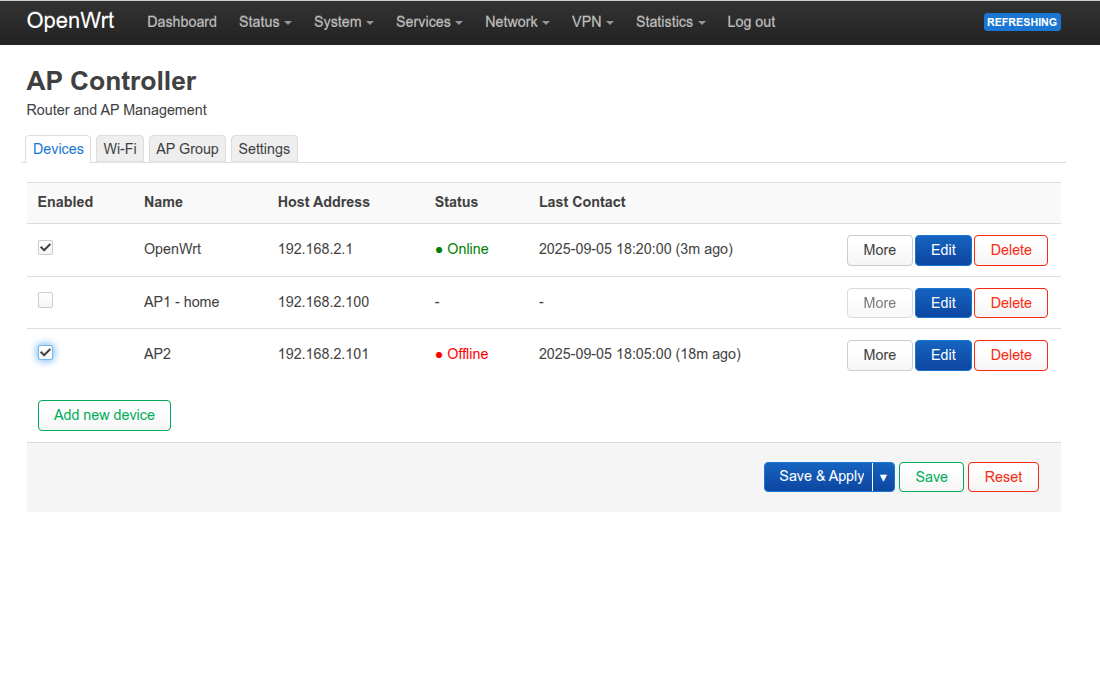
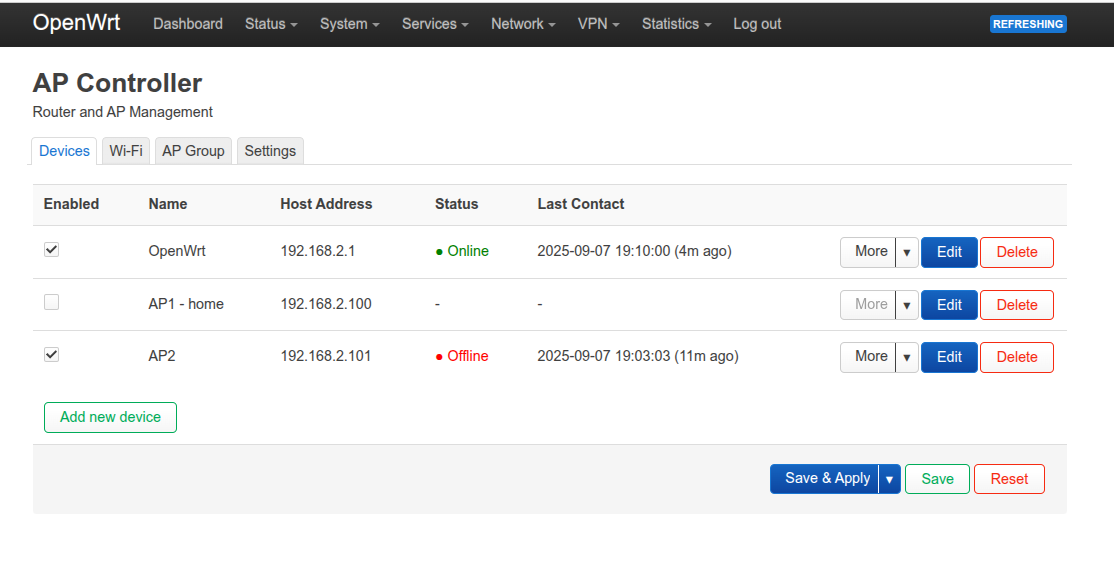
Design improvements
New features:
- Downloading the log from the device
- Ability to reboot the device

Fixed:
- Sending configuration to devices

diff --git a/luci-app-apcontroller/htdocs/luci-static/resources/view/apcontroller/apcontroller.js b/luci-app-apcontroller/htdocs/luci-static/resources/view/apcontroller/apcontroller.js
@@ -52,7 +52,7 @@ function hoststatus(records, section_id) {
 		if (!interval)
 			return E('span', { 'style': 'color: gray' }, _('Unknown'));
 		else
-			if (timestamp - lastContact_ts > parseInt(interval) * 2 * 60)
+			if (timestamp - lastContact_ts > parseInt(interval) * 2.5 * 60)
 				return E('span', { 'style': 'color: red' }, '● ' + _('Offline'));
 			else
 				return E('span', { 'style': 'color: green' }, '● ' + _('Online'));
@@ -115,6 +115,7 @@ return view.extend({
 			'status': _('Status'),
 			'lastcontact': _('Last Contact'),
 			'mac': _('MAC Address'),
+			'hostname': _('Hostname'),
 			'model': _('Model'),
 			'software': _('Software'),
 			'uptime': _('Uptime'),
@@ -130,6 +131,13 @@ return view.extend({
 		function updateDeviceStatus(records) {
 			devicestatus = records;
 			(devicestatus.hosts).forEach(row => {
+				if (row['channels2g'])
+					row['channels2g'] = row['channels2g'].replaceAll(' ', ', ')
+				if (row['channels5g'])
+					row['channels5g'] = row['channels5g'].replaceAll(' ', ', ')
+				if (row['channels6g'])
+					row['channels6g'] = row['channels6g'].replaceAll(' ', ', ')
+
 				if (row['lastcontact']) {
 					row['.lastcontact'] = row['lastcontact'];
 
@@ -140,7 +148,7 @@ return view.extend({
 
 						let t = '' + d.getFullYear() + '-' + lz(d.getMonth() + 1) + '-' + lz(d.getDate()) + ' ' +
 							lz(d.getHours()) + ':' + lz(d.getMinutes()) + ':' + lz(d.getSeconds());
-						
+
 						if (row['.lastcontact'] > 86400)
 							t += ' (' + parseInt(row['.lastcontact']/86400) + _('days ago') + ')';
 						else if (row['.lastcontact'] > 3600)
@@ -168,19 +176,20 @@ return view.extend({
 			document.querySelectorAll('#cbi-apcontroller-host tr[data-section-id]').forEach(row => {
 				const section_id = row.dataset.sectionId;
 				const hostRecord = devicestatus.hosts.find(h => h.section === section_id);
-				const li = row.querySelector('li[data-value="more"]');
-				if (li)
+
+				row.querySelectorAll('li[data-state="disabled"]').forEach(e => {
 					if (typeof hostRecord === 'undefined' || !hostRecord || !hostRecord['.lastcontact'] || hostRecord['.lastcontact'] == -1) {
-						li.setAttribute('aria-disabled', 'true');
-						li.classList.add('disabled');
-						li.style.pointerEvents = 'none';
-						li.style.opacity = '0.5';
+						e.setAttribute('aria-disabled', 'true');
+						e.classList.add('disabled');
+						e.style.pointerEvents = 'none';
+						e.style.opacity = '0.5';
 					} else {
-						li.removeAttribute('aria-disabled');
-						li.classList.remove('disabled');
-						li.style.pointerEvents = '';
-						li.style.opacity = '';
+						e.removeAttribute('aria-disabled');
+						e.classList.remove('disabled');
+						e.style.pointerEvents = '';
+						e.style.opacity = '';
 					}
+				})
 
 				Object.entries(morecolumns).forEach(([key, value]) => {
 					if (selectedcolumns.includes(key) || key == 'status') {
@@ -231,23 +240,30 @@ return view.extend({
 
 			const actionBtn = new ui.ComboButton('more', {
 				'more': [ _('More') ],
-				'ping': [ '%s %s'.format(_('IPv4'), _('Ping')) ]
+				'ping': [ '%s %s'.format(_('IPv4'), _('Ping')) ],
+				'log': [ _('Log') ],
+				'reboot': [ _('Reboot') ]
 			}, {
 				classes: {
 					'more': 'btn cbi-button cbi-button-normal',
-					'ping': 'btn cbi-button cbi-button-normal'
-			},
-			click: null
+					'ping': 'btn cbi-button cbi-button-normal',
+					'log': 'btn cbi-button cbi-button-normal',
+					'reboot': 'btn cbi-button cbi-button-normal'
+				},
+				click: null,
+				sort: false
 			}).render();
+			actionBtn.querySelector('li[data-value="more"]').setAttribute('data-state', 'disabled');
+			actionBtn.querySelector('li[data-value="log"]').setAttribute('data-state', 'disabled');
+			actionBtn.querySelector('li[data-value="reboot"]').setAttribute('data-state', 'disabled');
 
 			if (typeof host === 'undefined' || !host['.lastcontact'] || host['.lastcontact'] == -1) {
-				const li = actionBtn.querySelector('li[data-value="more"]');
-				if (li) {
-					li.setAttribute('aria-disabled', 'true');
-					li.classList.add('disabled');
-					li.style.pointerEvents = 'none';
-					li.style.opacity = '0.5';
-				}
+				actionBtn.querySelectorAll('li[data-state="disabled"]').forEach(e => {
+					e.setAttribute('aria-disabled', 'true');
+					e.classList.add('disabled');
+					e.style.pointerEvents = 'none';
+					e.style.opacity = '0.5';
+				})
 			}
 			actionBtn.querySelectorAll('li[data-value]').forEach(li => {
 				li.addEventListener('click', ev => {
@@ -259,10 +275,26 @@ return view.extend({
 						case 'ping':
 							this.actionPing(section_id, ev);
 							break;
+						case 'log':
+							this.actionLog(section_id, ev);
+							break;
+						case 'reboot':
+							this.actionReboot(section_id, ev);
+							break;
 					}
+					setTimeout(() => {
+						const defaultLi = actionBtn.querySelector('li[data-value="more"]');
+						if (defaultLi) {
+							actionBtn.querySelectorAll('li[data-value]').forEach(e => {
+								e.removeAttribute('selected');
+								e.removeAttribute('display');
+							});
+							defaultLi.setAttribute('selected', '');
+							defaultLi.setAttribute('display', 0);
+						}
+					}, 50);
 				});
 			});
-
 			dom.content(tdEl.lastChild, [
 				actionBtn,
 				tdEl.lastChild.childNodes[0],
@@ -301,43 +333,6 @@ return view.extend({
 						}
 					}, 50);
 				}
-			});
-		};
-
-		s.actionPing = function(section_id) {
-			const row = this.cfgvalue(section_id);
-
-			return this.map.save().then(() => {
-				ui.showModal(_('Ping'), [
-					E('p', { 'class': 'spinning' }, [ _('Pinging device...') ])
-				]);
-				return fs.exec('ping', [ '-4', '-c', '5', '-W', '1', row['ipaddr'] ]).then(function(res) {
-					ui.showModal(_('Ping'), [
-						res.stdout ? E('textarea', {
-							'spellcheck': 'false',
-							'wrap': 'off',
-							'rows': 25
-						}, [ res.stdout ]) : '',
-						res.stderr ? E('textarea', {
-							'spellcheck': 'false',
-							'wrap': 'off',
-							'rows': 25
-						}, [ res.stderr ]) : '',
-						E('div', { 'class': 'right' }, [
-							E('button', {
-								'class': 'cbi-button cbi-button-primary',
-								'click': ui.hideModal
-							}, [ _('Close') ])
-						])
-					]);
-				}).catch(function(err) {
-					ui.hideModal();
-					ui.addNotification(null, [
-						E('p', [ _('Error: '), err ])
-					]);
-				});
-			}).catch(err => {
-				ui.addNotification(null, E('p', err?.message || err), 'error');
 			});
 		};
 
@@ -386,10 +381,121 @@ return view.extend({
 						E('button', {
 							'class': 'cbi-button cbi-button-neutral',
 							'click': ui.hideModal
-						}, _('Close'))
+						}, _('Dismiss'))
 					])
 			);
 			ui.showModal(_("More Information"), child);
+		};
+
+		s.actionPing = function(section_id) {
+			const row = this.cfgvalue(section_id);
+
+			ui.showModal(_('Ping'), [
+				E('p', { 'class': 'spinning' }, [ _('Pinging device...') ])
+			]);
+			return fs.exec('ping', [ '-4', '-c', '5', '-W', '1', row['ipaddr'] ]).then(function(res) {
+				ui.showModal(_('Ping'), [
+					res.stdout ? E('textarea', {
+						'spellcheck': 'false',
+						'wrap': 'off',
+						'rows': 25
+					}, [ res.stdout ]) : '',
+					res.stderr ? E('textarea', {
+						'spellcheck': 'false',
+						'wrap': 'off',
+						'rows': 25
+					}, [ res.stderr ]) : '',
+					E('div', { 'class': 'right' }, [
+						E('button', {
+							'class': 'cbi-button cbi-button-primary',
+							'click': ui.hideModal
+						}, [ _('Dismiss') ])
+					])
+				]);
+			}).catch(function(err) {
+				ui.hideModal();
+				ui.addNotification(null, [
+					E('p', [ _('Error') + ': ', err ])
+				]);
+			});
+		};
+
+		s.actionLog = function(section_id) {
+			const row = this.cfgvalue(section_id);
+
+			ui.showModal(_('Log'), [
+				E('p', { 'class': 'spinning' }, [ _('Fetching log...') ])
+			]);
+			return fs.exec('sshpass', [
+				'-p',
+				typeof row['password'] !== 'undefined' ? row['password']: '""',
+				'ssh',
+				'-q',
+				'-o',
+				'StrictHostKeyChecking=no',
+				'-p',
+				row['port'],
+				row['username'] + '@' + row['ipaddr'],
+				'logread',
+				'-l',
+				'100']).then(function(res) {
+				ui.showModal(_('Log from') + ' ' + row['name'] + ' (' + row['ipaddr'] + ')', [
+					res.stdout ? E('textarea', {
+						'spellcheck': 'false',
+						'wrap': 'off',
+						'rows': 40,
+						'style': 'white-space: nowrap',
+					}, [ res.stdout ]) : '',
+					E('div', { 'class': 'right' }, [
+						E('button', {
+							'class': 'cbi-button cbi-button-primary',
+							'click': ui.hideModal
+						}, [ _('Dismiss') ])
+					])
+				]);
+			}).catch(function(err) {
+				ui.hideModal();
+				ui.addNotification(null, [
+					E('p', [ _('Error') + ': ', err ])
+				]);
+			});
+		};
+
+		s.actionReboot = function(section_id) {
+			const row = this.cfgvalue(section_id);
+
+			if (!confirm(_('Are you sure you want to reboot ' + row['name'] + ' (' + row['ipaddr'] + ')' + '?'))) {
+				return;
+			}
+			ui.showModal(_('Reboot'), [
+				E('p', { 'class': 'spinning' }, [ _('Requesting reboot...') ])
+			]);
+			return fs.exec('sshpass', [
+				'-p',
+				typeof row['password'] !== 'undefined' ? row['password']: '""',
+				'ssh',
+				'-q',
+				'-o',
+				'StrictHostKeyChecking=no',
+				'-p',
+				row['port'],
+				row['username'] + '@' + row['ipaddr'],
+				'reboot']).then(function(res) {
+				ui.showModal(_('Reboot'), [
+					E('p', { }, [ _('Requesting reboot...') + ' ' + _('done') ]),
+					E('div', { 'class': 'right' }, [
+						E('button', {
+							'class': 'cbi-button cbi-button-primary',
+							'click': ui.hideModal
+						}, [ _('Dismiss') ])
+					])
+				]);
+			}).catch(function(err) {
+				ui.hideModal();
+				ui.addNotification(null, [
+					E('p', [ _('Error') + ': ', err ])
+				]);
+			});
 		};
 
 		o = s.taboption('host', form.Flag, 'enabled', _('Enabled'), _('When enabled, the device will be polled periodically'));
@@ -439,7 +545,7 @@ return view.extend({
 
 		Object.entries(morecolumns).forEach(([key, value]) => {
 			if (selectedcolumns.includes(key) || key == 'status') {
-				o = s.taboption('host', form.Value, '_' + key, value);
+				o = s.taboption('host', form.DummyValue, '_' + key, value);
 				o.rawhtml = true;
 				o.write = function() {};
 				o.remove = function() {};
@@ -598,6 +704,7 @@ return view.extend({
 				send_opt = {
 					'class': 'btn cbi-button cbi-button-neutral',
 					'title': _('Send config to devices'),
+					'click': ui.createHandlerFn(this, 'handleSendConfig', section_id)
 				};
 
 			dom.content(tdEl.lastChild, [
@@ -628,7 +735,7 @@ return view.extend({
 				}).catch(function(err) {
 					ui.hideModal();
 					ui.addNotification(null, [
-						E('p', [ _('Error: '), err ])
+						E('p', [ _('Error') + ': ', err ])
 					]);
 				});
 			}).catch(err => {
@@ -721,7 +828,7 @@ return view.extend({
 				updateDeviceStatus(livestatus);
 				refreshDeviceGrid();
 			});
-		}, 60);
+		}, 63);
 
 		return m.render();
 	}

diff --git a/README.pl.md b/README.pl.md
@@ -7,16 +7,16 @@ Aplikacja to lekki system zarządzania punktami dostępowymi (Access Points), zb
 <img src="https://raw.githubusercontent.com/obsy/apcontroller/refs/heads/main/img/tab-devices.png">
  
 Aplikacja umożliwia:
-- dodawanie i definiowania urządzeń (pracujących pod kontrolą OpenWrt) oraz wprowadzenie danych dostępnych (takich jak adres IP, port, login i hasło użytkownika).
+- dodawanie i definiowania urządzeń (pracujących pod kontrolą OpenWrt) oraz wprowadzenie danych dostępnych (takich jak adres IP, port, login i hasło użytkownika)
 - włączenie/wyłącenie monitorowania urządzeń oraz prezentacja parametrów ich pracy
+- pobieranie logów z urządzenia, możliwość rebootu i pingowania urządzenia
 - definiowanie sieci Wi-Fi
 - definiowanie grup AP przez powiązanie sieci Wi-Fi oraz urządzeń
 - wysyłanie konfiguracji sieci do włączonych urządzeń
  
 <img src="https://raw.githubusercontent.com/obsy/apcontroller/refs/heads/main/img/tab-devices-edit.png">
  
-Monitoring urządzeń odbywa się cyklicznie przez skrypt wykonywany w cronie. Aby urządzenie było monitorowane wymagane jest jego włączenie (opcja "Enabled") oraz podanie danych dostępowych. System wysyła do AP skrypt (wykorzystując scp) a następnie uruchamia go przez ssh, co pozwala na uzyskanie danych o pracy punktu dostępowego.
-Status Offline urządzenia zostanie wyświetlony jeżeli urządzenie nie dostarczy danych w ciągu czasu zdefiniowanego jako 2 x interwał odpytywania (np. 10 minut jeżeli cykl został zdefiniowany na 5 minut).
+Monitoring urządzeń odbywa się cyklicznie przez skrypt wykonywany w cronie. Aby urządzenie było monitorowane wymagane jest jego włączenie (opcja "Enabled") oraz podanie danych dostępowych. System wysyła do AP skrypt (wykorzystując scp) a następnie uruchamia go przez ssh, co pozwala na uzyskanie danych o pracy punktu dostępowego. Status Offline urządzenia zostanie wyświetlony jeżeli urządzenie nie dostarczy danych w ciągu czasu zdefiniowanego jako 2.5 x interwał odpytywania (np. 12.5 minuty jeżeli cykl został zdefiniowany na 5 minut).
  
 <img src="https://raw.githubusercontent.com/obsy/apcontroller/refs/heads/main/img/tab-wifi.png">
 <img src="https://raw.githubusercontent.com/obsy/apcontroller/refs/heads/main/img/tab-wifi-edit.png">

diff --git a/README.md b/README.md
@@ -7,15 +7,16 @@ The application is a lightweight Access Point (AP) management system, developed 
 <img src="https://raw.githubusercontent.com/obsy/apcontroller/refs/heads/main/img/tab-devices.png">
  
 The application provides the following features:
-- adding and defining devices (running on OpenWrt) and storing access credentials (such as IP address, port, username, and password).
-- dnabling/disabling device monitoring and presenting device operation parameters.
-- defining Wi-Fi networks.
-- creating AP groups by linking Wi-Fi networks and devices.
-- deploying network configurations to enabled devices.
+- adding and defining devices (running on OpenWrt) and storing access credentials (such as IP address, port, username, and password)
+- enabling/disabling device monitoring and presenting device operation parameters
+- downloading logs from the device, the ability to reboot and ping the device
+- defining Wi-Fi networks
+- creating AP groups by linking Wi-Fi networks and devices
+- deploying network configurations to enabled devices
  
 <img src="https://raw.githubusercontent.com/obsy/apcontroller/refs/heads/main/img/tab-devices-edit.png">
  
-Device monitoring is performed periodically by a cron-executed script. For a device to be monitored, it must be enabled (the “Enabled” option) and have valid access credentials provided. The system sends a script to the AP (via scp) and executes it through ssh, which allows retrieving operational data from the access point. A device will be displayed with Offline status if it fails to provide data within twice the defined polling interval (e.g., 10 minutes if the polling cycle is set to 5 minutes).
+Device monitoring is performed periodically by a cron-executed script. For a device to be monitored, it must be enabled (the “Enabled” option) and have valid access credentials provided. The system sends a script to the AP (via scp) and executes it through ssh, which allows retrieving operational data from the access point. A device will be displayed with Offline status if it fails to provide data within twice and half the defined polling interval (e.g., 12.5 minutes if the polling cycle is set to 5 minutes).
  
 <img src="https://raw.githubusercontent.com/obsy/apcontroller/refs/heads/main/img/tab-wifi.png">
  
